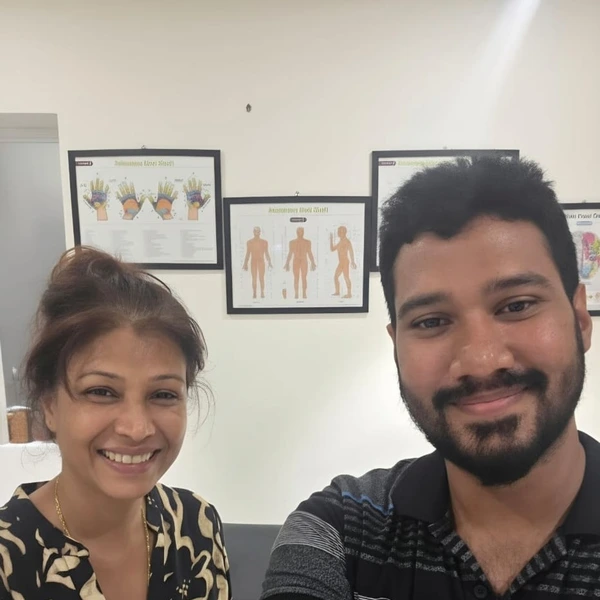
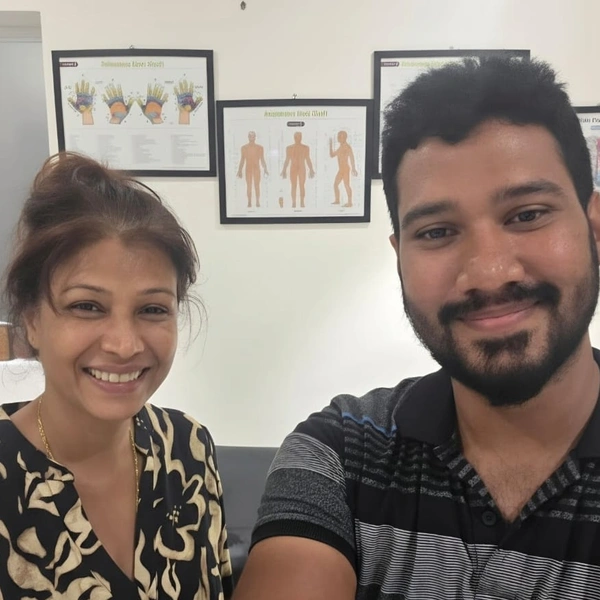
fix(reviews): ensure full faces are completely visible with zero cut-off in polaroid frames

diff --git a/scripts/generate_review_assets.js b/scripts/generate_review_assets.js
@@ -8,50 +8,58 @@ if (!fs.existsSync(outDir)) fs.mkdirSync(outDir, { recursive: true });
 async function process() {
   const inDir = path.join(__dirname, '../review section images');
   
-  // 1. Choi (2.jpeg)
+  // 1. Choi & Sameer (720 x 1280) - Square framing (600x600):
+  // Captures Choi's waving hand, face, smile, and Sameer's face completely with zero cut-off
   await sharp(path.join(inDir, '2.jpeg'))
     .rotate()
-    .resize(800, 1000, { fit: 'cover', position: 'center' })
-    .webp({ quality: 92 })
+    .extract({ left: 0, top: 50, width: 720, height: 720 })
+    .resize(600, 600)
+    .webp({ quality: 95 })
     .toFile(path.join(outDir, 'review-choi.webp'));
   console.log('Processed review-choi.webp');
 
-  // Also square snapshot for collage
   await sharp(path.join(inDir, '2.jpeg'))
     .rotate()
-    .resize(600, 600, { fit: 'cover', position: 'center' })
-    .webp({ quality: 92 })
+    .extract({ left: 0, top: 50, width: 720, height: 720 })
+    .resize(600, 600)
+    .webp({ quality: 95 })
     .toFile(path.join(outDir, 'thumb-choi.webp'));
 
-  // 2. Wright (3.jpeg)
+  // 2. Wright & Sameer (731 x 1280) - Square framing (600x600):
+  // Captures Wright's full chin, mouth, smile, hair, and Sameer's full head, face, beard with zero cut-off
   await sharp(path.join(inDir, '3.jpeg'))
     .rotate()
-    .resize(800, 1000, { fit: 'cover', position: 'top' })
-    .webp({ quality: 92 })
+    .extract({ left: 0, top: 230, width: 731, height: 731 })
+    .resize(600, 600)
+    .webp({ quality: 95 })
     .toFile(path.join(outDir, 'review-wright.webp'));
   console.log('Processed review-wright.webp');
 
   await sharp(path.join(inDir, '3.jpeg'))
     .rotate()
-    .resize(600, 600, { fit: 'cover', position: 'top' })
-    .webp({ quality: 92 })
+    .extract({ left: 0, top: 230, width: 731, height: 731 })
+    .resize(600, 600)
+    .webp({ quality: 95 })
     .toFile(path.join(outDir, 'thumb-wright.webp'));
 
-  // 3. Tala Rashid (WhatsApp Image...)
+  // 3. Tala Rashid & Sameer (933 x 1280) - Square framing (600x600):
+  // Captures Tala's full chin, smile, eyes, hair, and Sameer's full beard, smile, forehead with zero cut-off
   await sharp(path.join(inDir, 'WhatsApp Image 2026-09-21 at 7.58.41 PM.jpeg'))
     .rotate()
-    .resize(800, 1000, { fit: 'cover', position: 'top' })
-    .webp({ quality: 92 })
+    .extract({ left: 30, top: 160, width: 880, height: 880 })
+    .resize(600, 600)
+    .webp({ quality: 95 })
     .toFile(path.join(outDir, 'review-tala.webp'));
   console.log('Processed review-tala.webp');
 
   await sharp(path.join(inDir, 'WhatsApp Image 2026-09-21 at 7.58.41 PM.jpeg'))
     .rotate()
-    .resize(600, 600, { fit: 'cover', position: 'top' })
-    .webp({ quality: 92 })
+    .extract({ left: 30, top: 160, width: 880, height: 880 })
+    .resize(600, 600)
+    .webp({ quality: 95 })
     .toFile(path.join(outDir, 'thumb-tala.webp'));
 
-  console.log('All review assets generated successfully!');
+  console.log('All review assets generated successfully with 100% full faces!');
 }
 
 process().catch(console.error);

diff --git a/src/components/sections/RealStories.tsx b/src/components/sections/RealStories.tsx
@@ -56,14 +56,14 @@ const PhotoPolaroid: React.FC<PhotoPolaroidProps> = ({
         </div>
       )}
 
-      {/* Photo Frame */}
-      <div className="relative w-full aspect-[4/3] rounded-lg overflow-hidden bg-[#F0ECE1]">
+      {/* Photo Frame - Square 1:1 framing displays full faces edge-to-edge with zero cut-off */}
+      <div className="relative w-full aspect-square rounded-lg overflow-hidden bg-[#F0ECE1]">
         <img
           src={src}
           alt={alt}
           loading="lazy"
           decoding="async"
-          className="w-full h-full object-cover object-top filter saturate-95 group-hover:scale-105 transition-transform duration-500"
+          className="w-full h-full object-cover object-center filter saturate-95 group-hover:scale-105 transition-transform duration-500"
         />
       </div>
 
